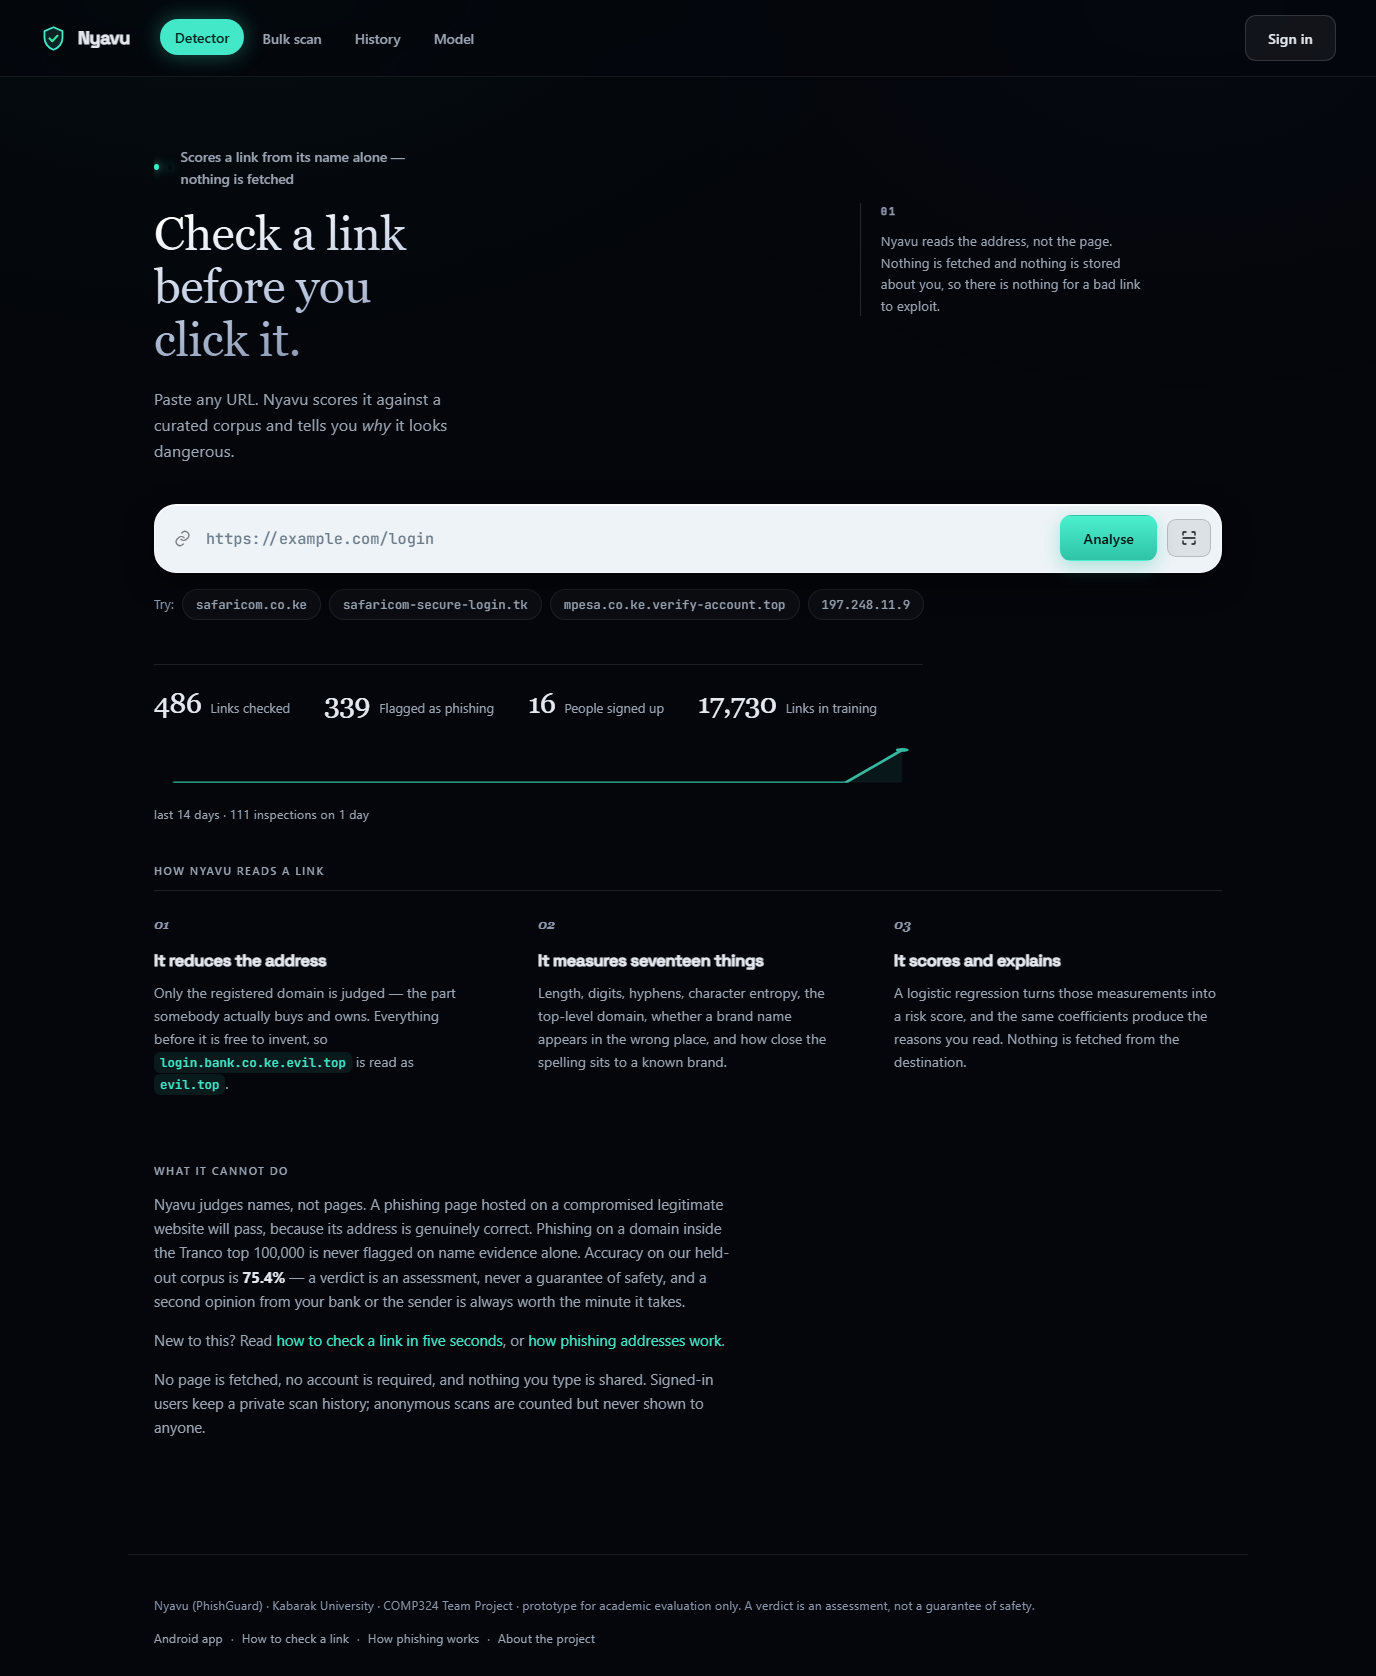
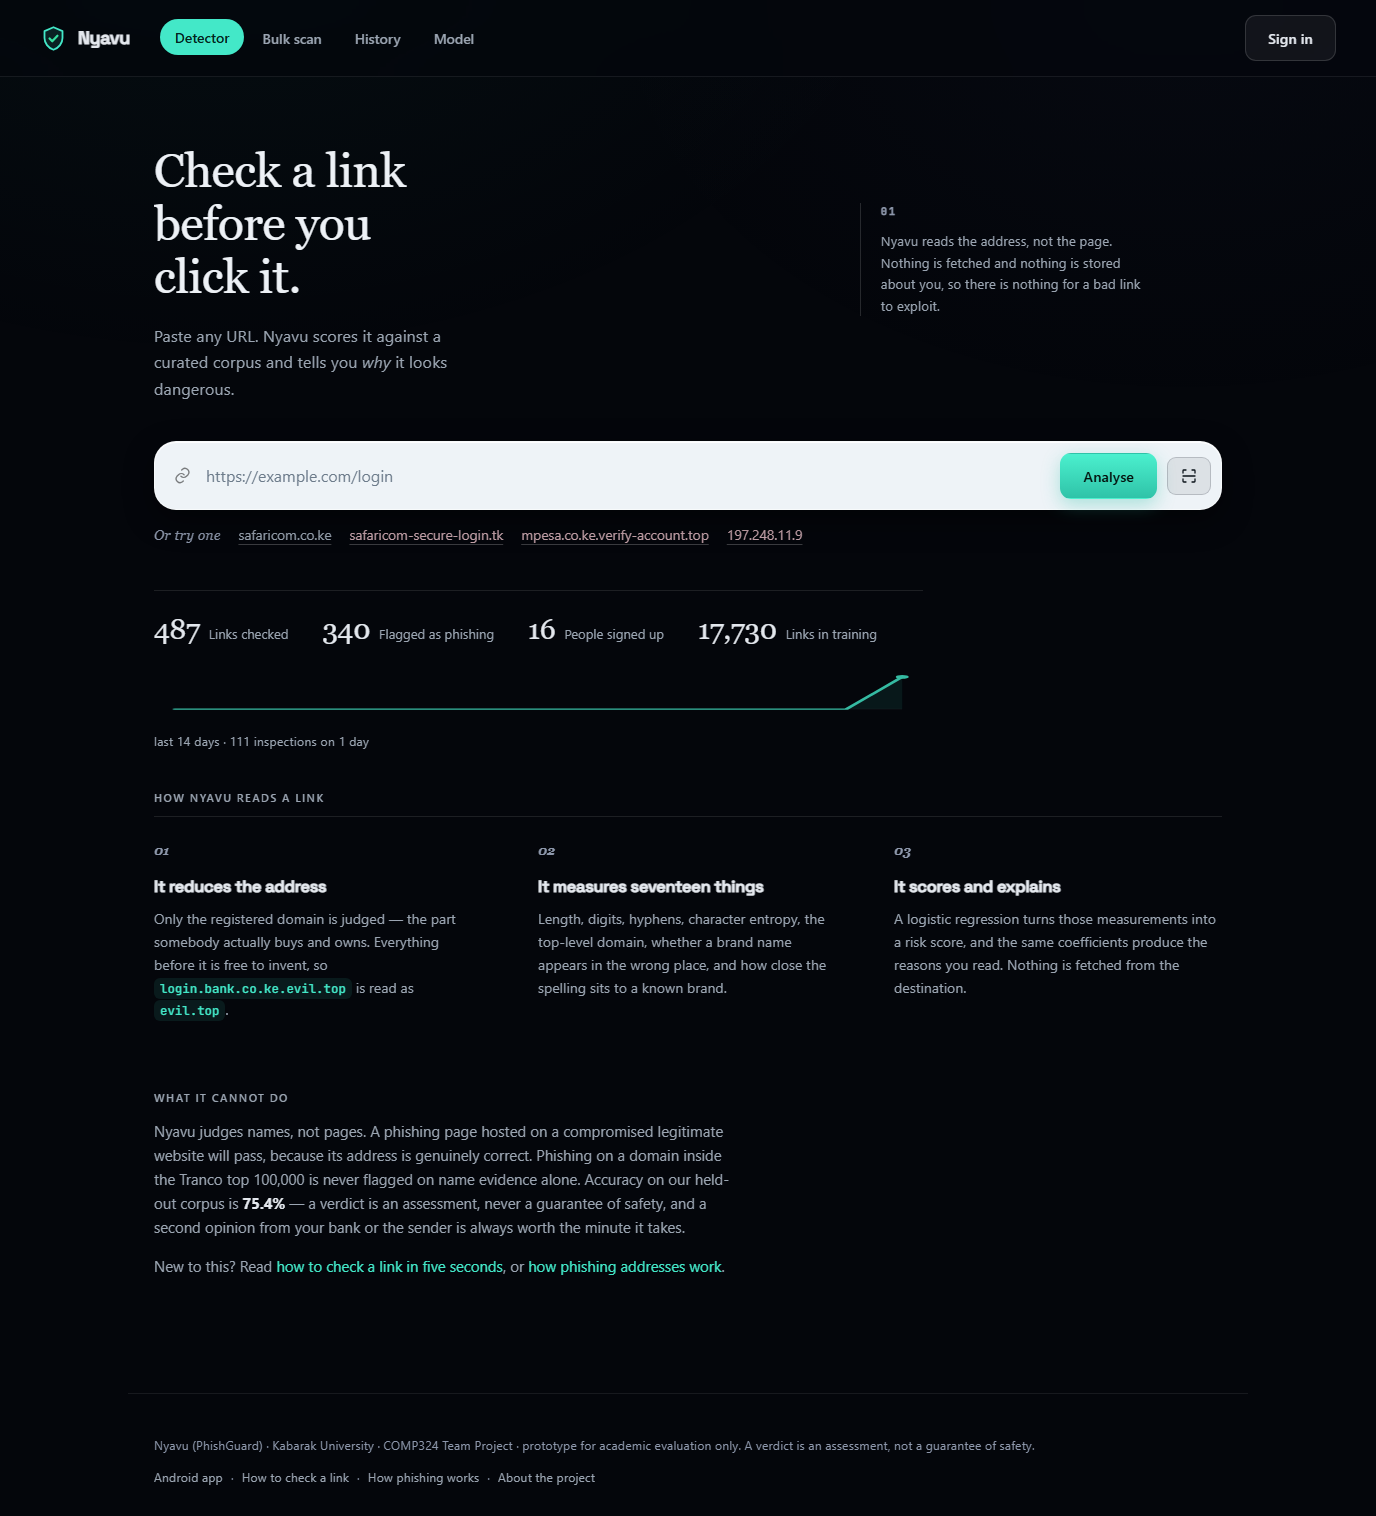
The light was coming from six places, and the chips were pills from an older page
Where the neon actually was, all removed:
- the h1 had a gradient fill with background-clip text, which is both a glow and a
  generated-interface signature
- the active nav item carried a 22px mint bloom
- the verdict badges carried 24px blooms in red and green
- the primary button had a white shine sweeping across it
- the top bar had a luminous gradient underline
- the moon had a halo

The verdict surface is now a panel with a hairline and a soft shadow, not a light source.

- the chips were still set in the old font and drawn as grey pills. They are a line of
  underlined links with an italic serif invitation, Or try one, and the phishing samples
  keep a muted red so they read as different without shouting
- the address field uses the body face at reading size, not the mono
- the eyebrow line above the heading is gone

diff --git a/app/static/styles.css b/app/static/styles.css
@@ -4870,3 +4870,93 @@ h1, h2, .hero h1, .hero h2 {
 @media (max-width: 900px) {
   .data-band { width: 100%; }
 }
+
+/* =====================================================================
+   Where the light was coming from
+
+   A gradient headline, a glowing nav pill, glowing verdict badges, a shine sweeping
+   across the primary button, a luminous underline on the top bar and a halo on the
+   moon. None of it was doing a job. Light is the surface and the type now.
+   ===================================================================== */
+h1, .hero h1 {
+  background: none !important;
+  -webkit-background-clip: border-box !important;
+  background-clip: border-box !important;
+  -webkit-text-fill-color: currentColor !important;
+  color: #EDF1F6 !important;
+}
+
+.stats-strip strong {
+  background: none !important;
+  -webkit-text-fill-color: currentColor !important;
+  color: var(--text) !important;
+}
+
+.nav a.active { box-shadow: none !important; }
+.badge.high, .badge.low, .badge.safe, .badge.medium { box-shadow: none !important; }
+
+.btn.primary::after { display: none !important; }
+.topbar::after { display: none !important; }
+.eyebrow-dot { box-shadow: none !important; }
+.fishing .moon { filter: none !important; }
+
+/* the verdict surface is a panel, not a light source */
+.verdict-head {
+  background: rgba(255, 255, 255, .022) !important;
+  box-shadow: 0 1px 0 rgba(255, 255, 255, .05), 0 18px 40px rgba(0, 0, 0, .35) !important;
+}
+
+/* focus is a ring, not a glow */
+.input-row:focus-within {
+  box-shadow: 0 0 0 3px rgba(67, 232, 200, .30), 0 10px 26px rgba(0, 0, 0, .45) !important;
+}
+
+/* =====================================================================
+   The samples: a line of links, underlined, the way someone would offer them
+   ===================================================================== */
+.samples {
+  display: flex;
+  flex-wrap: wrap;
+  align-items: baseline;
+  gap: 6px 18px;
+  margin-top: 14px;
+}
+
+.samples-label {
+  font-family: var(--font-serif);
+  font-style: italic;
+  font-size: 0.86rem;
+  color: var(--faint);
+}
+
+.chip {
+  padding: 1px 0 !important;
+  background: none !important;
+  border: 0 !important;
+  border-radius: 0 !important;
+  font-family: var(--font-body) !important;
+  font-size: 0.86rem !important;
+  letter-spacing: 0 !important;
+  color: var(--muted) !important;
+  text-decoration: underline;
+  text-decoration-thickness: 1px;
+  text-underline-offset: 4px;
+  text-decoration-color: rgba(255, 255, 255, .22);
+  transition: color .2s ease, text-decoration-color .2s ease;
+}
+
+.chip:hover {
+  color: var(--text) !important;
+  text-decoration-color: var(--mint);
+  background: none !important;
+}
+
+.chip.danger { color: #C9A6AE !important; }
+.chip.danger:hover { color: #F0C8D0 !important; text-decoration-color: #E8879A; }
+
+/* the address takes the body face now, at reading size */
+#urlInput {
+  font-family: var(--font-body) !important;
+  font-size: 1rem !important;
+  letter-spacing: 0 !important;
+}

diff --git a/app/static/index.html b/app/static/index.html
@@ -59,7 +59,7 @@
   <section id="detector" class="view active">
     <div class="hero">
       <div class="hero-copy">
-        <p class="eyebrow"><span class="eyebrow-dot"></span>Scores a link from its name alone — nothing is fetched</p>
+
         <h1>Check a link before you click it.</h1>
         <p class="lede">Paste any URL. Nyavu scores it against a curated corpus and tells you <em>why</em> it looks dangerous.</p>
       </div>
@@ -89,12 +89,12 @@
         </button>
       </div>
       <div class="samples">
-        <span>Try:</span>
-        <button type="button" class="chip" data-url="https://www.safaricom.co.ke/">safaricom.co.ke</button>
-        <button type="button" class="chip danger" data-url="http://safaricom-secure-login.tk/verify">safaricom-secure-login.tk</button>
-        <button type="button" class="chip danger" data-url="http://mpesa.co.ke.verify-account.top/">mpesa.co.ke.verify-account.top</button>
-        <button type="button" class="chip danger" data-url="http://197.248.11.9/equity/login.php">197.248.11.9</button>
-      </div>
+          <span class="samples-label">Or try one</span>
+          <button type="button" class="chip" data-url="https://www.safaricom.co.ke/">safaricom.co.ke</button>
+          <button type="button" class="chip danger" data-url="http://safaricom-secure-login.tk/verify">safaricom-secure-login.tk</button>
+          <button type="button" class="chip danger" data-url="http://mpesa.co.ke.verify-account.top/">mpesa.co.ke.verify-account.top</button>
+          <button type="button" class="chip danger" data-url="http://197.248.11.9/equity/login.php">197.248.11.9</button>
+        </div>
     </form>
 
     <div id="result" class="result hidden" aria-live="polite"></div>
